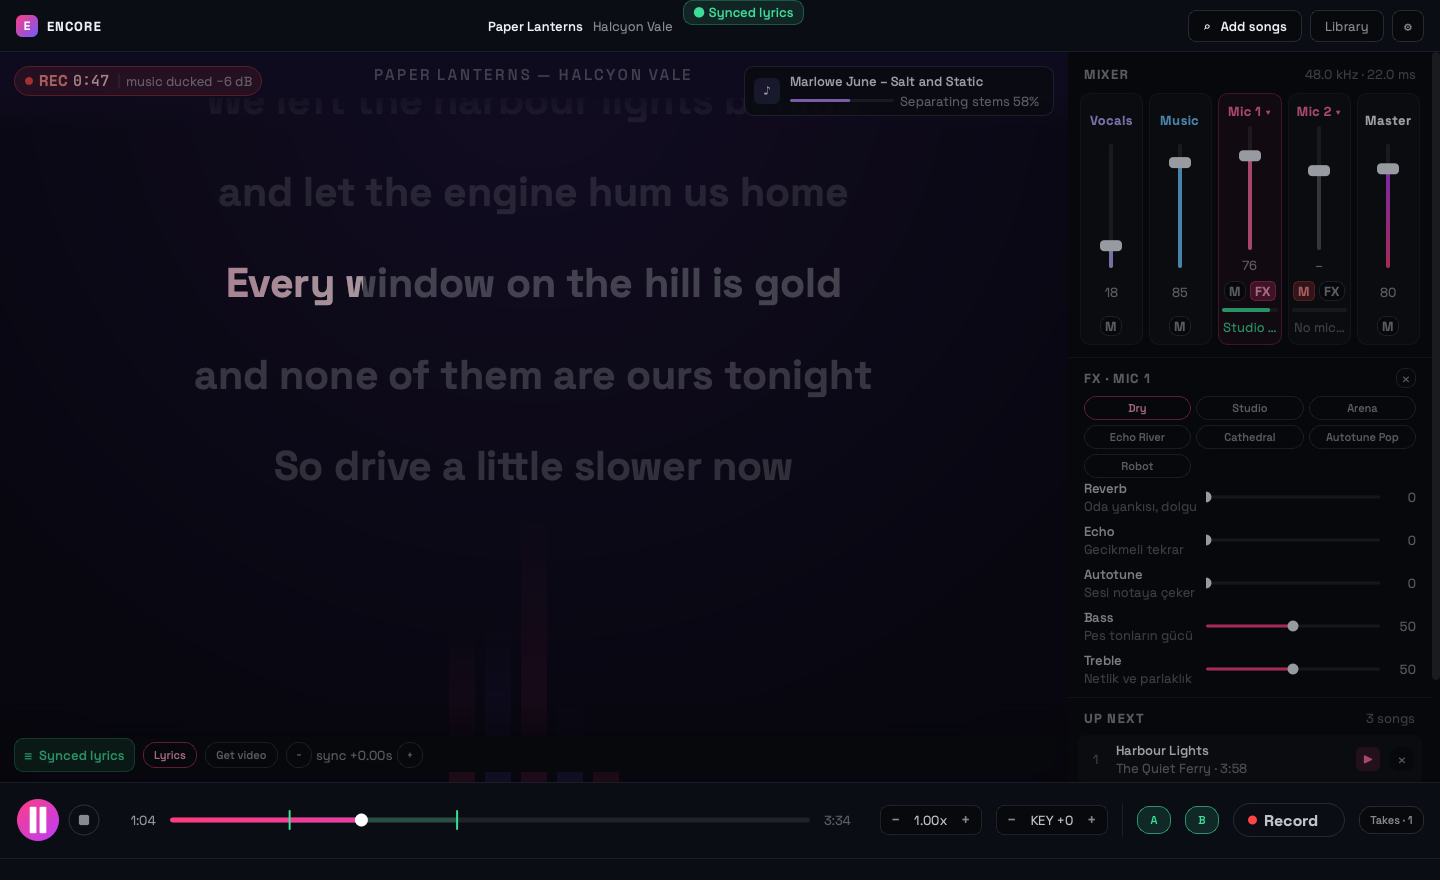
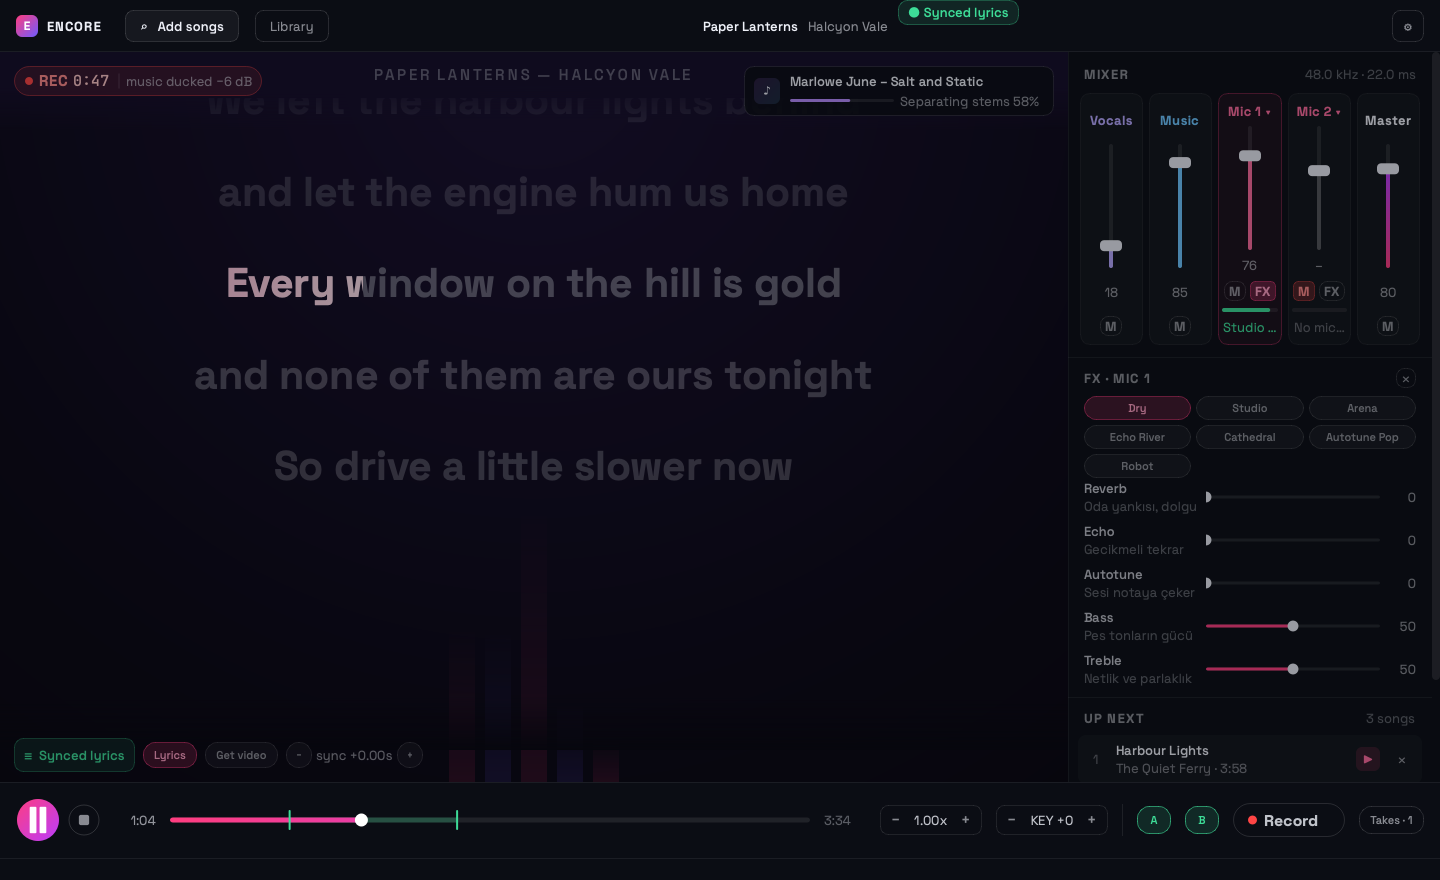
fix: put the drawer buttons on the side the drawer opens from
"Add songs" and "Library" sat at the far right of the top bar while the panel
they open slides out of the left edge. Both now live next to the logo on the
left; the settings gear stays right, because it opens a centred modal rather
than the drawer.

Fixes the drawer panel being see-through. The central widget carried
`setStyleSheet("background: ...")` with no selector, and a selector-less rule is
inherited by every descendant — so the drawer's own pages painted the window
background straight over the panel, and the stage showed through. Scoping the
rule to `#Root` fixes it, and removes a trap that would have caught anything
else layered on top later.

The scroll areas inside the drawer also stop filling their viewports, which was
covering the panel for the same reason.

diff --git a/karaoke_app/ui/drawer.py b/karaoke_app/ui/drawer.py
@@ -10,14 +10,16 @@ from typing import Dict, List, Optional
 
 from PySide6.QtCore import (QEasingCurve, QPoint, QPropertyAnimation, Qt,
                             QTimer, Signal)
-from PySide6.QtGui import QFont, QPixmap
-from PySide6.QtWidgets import (QFileDialog, QHBoxLayout, QLabel, QLineEdit,
-                               QScrollArea, QSizePolicy, QVBoxLayout, QWidget)
+from PySide6.QtGui import QFont, QPainter, QPen, QPixmap
+from PySide6.QtWidgets import (QFileDialog, QFrame, QHBoxLayout, QLabel,
+                               QLineEdit, QScrollArea, QSizePolicy, QVBoxLayout,
+                               QWidget)
 
 from ..audio.youtube import SearchResult
 from ..core.jobs import STAGE_DOWNLOAD, STAGE_LYRICS, STAGE_SEPARATE
 from ..core.library import (LYRICS_NONE, LYRICS_PLAIN, LYRICS_SYNCED, SongEntry)
 from . import theme
+from .theme import qc
 from .widgets import ElidedLabel, ProgressStrip, Thumbnail, button, label
 
 logger = logging.getLogger(__name__)
@@ -190,6 +192,22 @@ class LibraryRow(QWidget):
         layout.addWidget(remove)
 
 
+class _Panel(QWidget):
+    """The drawer's sheet.
+
+    Paints its own background rather than relying on a stylesheet rule: the
+    window's global sheet sets every QWidget transparent, and which rule wins
+    for a plain QWidget depends on details that are not worth depending on. A
+    drawer you can see the stage through is not a drawer.
+    """
+
+    def paintEvent(self, event) -> None:
+        painter = QPainter(self)
+        painter.fillRect(self.rect(), qc("rgba(12,14,21,0.985)"))
+        painter.setPen(QPen(qc(theme.BORDER_STRONG), 1))
+        painter.drawLine(self.width() - 1, 0, self.width() - 1, self.height())
+
+
 class SongDrawer(QWidget):
     """The whole overlay: tabs, search field, result list, library list."""
 
@@ -220,12 +238,8 @@ class SongDrawer(QWidget):
         self.scrim.setStyleSheet("background: rgba(4,5,8,0.35);")
         self.scrim.mousePressEvent = lambda _: self.closed.emit()
 
-        self.panel = QWidget(self)
+        self.panel = _Panel(self)
         self.panel.setFixedWidth(self.PANEL_WIDTH)
-        self.panel.setStyleSheet(
-            "QWidget#DrawerPanel { background: rgba(12,14,21,0.98);"
-            f" border-right: 1px solid {theme.BORDER_STRONG}; }}")
-        self.panel.setObjectName("DrawerPanel")
         self.panel.raise_()
 
         self._slide = QPropertyAnimation(self.panel, b"pos", self)
@@ -447,11 +461,19 @@ class SongDrawer(QWidget):
 
 
 def _scroll_column():
-    """A vertical scroll area whose body layout ends in a stretch."""
+    """A vertical scroll area whose body layout ends in a stretch.
+
+    The viewport has to be told not to fill itself: by default it paints the
+    window colour, which lands on top of the drawer panel and quietly undoes the
+    panel's own background.
+    """
     area = QScrollArea()
     area.setWidgetResizable(True)
+    area.setFrameShape(QFrame.Shape.NoFrame)
     area.setHorizontalScrollBarPolicy(Qt.ScrollBarPolicy.ScrollBarAlwaysOff)
+    area.viewport().setAutoFillBackground(False)
     body = QWidget()
+    body.setAutoFillBackground(False)
     layout = QVBoxLayout(body)
     layout.setContentsMargins(14, 2, 14, 14)
     layout.setSpacing(8)

diff --git a/karaoke_app/ui/main_window.py b/karaoke_app/ui/main_window.py
@@ -126,7 +126,11 @@ class MainWindow(QMainWindow):
         self.setStyleSheet(theme.stylesheet() + BUTTON_QSS)
 
         root = QWidget()
-        root.setStyleSheet(f"background: {theme.BG};")
+        # Targeted by id, not a bare property. A selector-less rule is inherited
+        # by every descendant, which paints an opaque background over anything
+        # layered on top — the drawer panel most visibly.
+        root.setObjectName("Root")
+        root.setStyleSheet(f"#Root {{ background: {theme.BG}; }}")
         self.setCentralWidget(root)
         column = QVBoxLayout(root)
         column.setContentsMargins(0, 0, 0, 0)
@@ -176,11 +180,23 @@ class MainWindow(QMainWindow):
             "background: qlineargradient(x1:0,y1:0,x2:1,y2:1,"
             f"stop:0 {theme.PINK}, stop:1 {theme.INDIGO});"
             "border-radius: 6px; color: white; font-weight: 700; font-size: 12px;")
+        # The two buttons that open the drawer live on the left, because that is
+        # the edge the drawer comes out of. Reaching to the far right to make a
+        # panel appear on the far left is the kind of small wrongness you feel
+        # every single time.
         brand = QHBoxLayout()
         brand.setSpacing(9)
         brand.addWidget(mark)
         brand.addWidget(label("ENCORE", 13, QFont.Weight.Bold, spacing=14))
         layout.addLayout(brand)
+
+        layout.addSpacing(6)
+        self.add_button = button("⌕   Add songs", "BtnSoft")
+        self.add_button.clicked.connect(lambda: self.open_drawer("search"))
+        self.library_button = button("Library", "BtnGhost")
+        self.library_button.clicked.connect(lambda: self.open_drawer("library"))
+        layout.addWidget(self.add_button)
+        layout.addWidget(self.library_button)
 
         layout.addStretch(1)
         centre = QHBoxLayout()
@@ -195,19 +211,11 @@ class MainWindow(QMainWindow):
         layout.addLayout(centre)
         layout.addStretch(1)
 
-        actions = QHBoxLayout()
-        actions.setSpacing(8)
-        self.add_button = button("⌕   Add songs", "BtnSoft")
-        self.add_button.clicked.connect(lambda: self.open_drawer("search"))
-        self.library_button = button("Library", "BtnGhost")
-        self.library_button.clicked.connect(lambda: self.open_drawer("library"))
+        # Settings stays on the right: it opens a centred modal, not the drawer.
         self.settings_button = button("⚙", "BtnIcon", height=32, width=32,
                                       tooltip="Audio settings")
         self.settings_button.clicked.connect(self.open_settings)
-        actions.addWidget(self.add_button)
-        actions.addWidget(self.library_button)
-        actions.addWidget(self.settings_button)
-        layout.addLayout(actions)
+        layout.addWidget(self.settings_button)
         return bar
 
     # ------------------------------------------------------------------